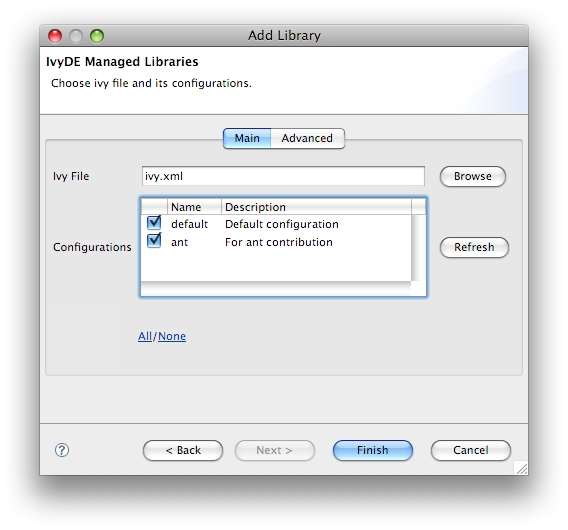
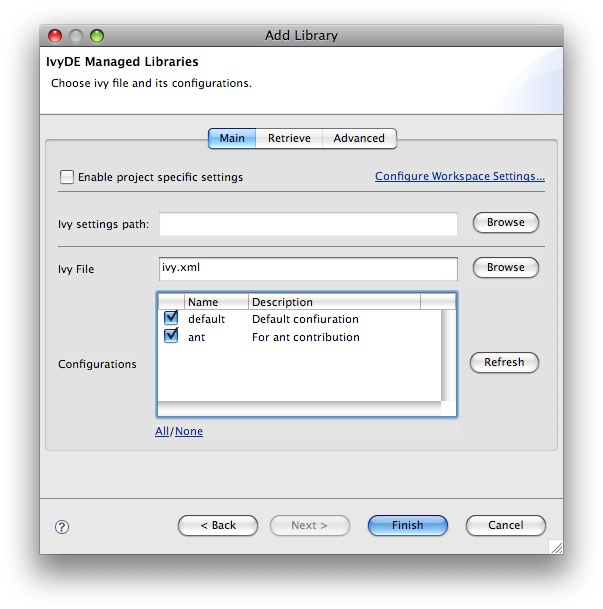
IVYDE-119:  - update of the documentation and the screenshots
git-svn-id: http://svn.apache.org/repos/asf/ant@713481 13f79535-47bb-0310-9956-ffa450edef68

Changed region(s): [[0.0599, 0.0302, 0.9577, 0.9358]]

diff --git a/ivy/ivyde/trunk/doc/cp_container.html b/ivy/ivyde/trunk/doc/cp_container.html
@@ -45,7 +45,9 @@ Nothing easier, just follow these steps:
 <li>Open the "Add Library" form of Eclipse (In package Explorer, in popup menu of your project choose : [Build Path]/[Add Libraries]).<br/><br/><center><img src="images/build_path_menu.jpg"/></center><br/><br/></li>
 <li>Select "IvyDE Managed Dependencies" item.<br/><br/><center><img src="images/add_lib.jpg"/></center><br/><br/></li>
 <li>Select an ivy.xml file or a <a href="maven.html">maven pom.xml</a> and the desired configurations.<br/><br/><center><img src="images/ivy_file_def.jpg"/></center><br/><br/></li>
-<li><a name="localconf"></a>You then might want to have a special configuration for your project, a configuration different from the <a href="index.html#pref">global one</a>. Then select the "Advanced" panel and click on "Enable project specific settings". Every configuration entry behaves exactly is the same way as the <a href="index.html#pref">global ones</a>.<br/><br/><center><img src="images/cp_advanced_conf.jpg"/></center></li>
+<li><a name="localconf"></a>You then might want to have a special configuration for your project, a configuration different from the <a href="index.html#pref">global one</a>. For the ivy settings, click on the "Enable project specific settings" check box.<br/><br/><center><img src="images/project_specific_settings.jpg"/></center></li>
+<li><a name="retrieve"></a>On the next panel's tab, you can specify a retrieve job that will be launched on each resolve.<br/><br/><center><img src="images/retrieve.jpg"/></center></li>
+<li><a name="advanced"></a>You can also customize some advanced configuration of the classpath container: see the "Advanced" panel and click on "Enable project specific settings". Every configuration entry behaves exactly is the same way as the <a href="index.html#pref">global ones</a>.<br/><br/><center><img src="images/cp_advanced_conf.jpg"/></center></li>
 </ul><br/>
 Your class path is set and you can see all dependencies in one unique folder of the package explorer (folder name = &amp;amp;lt;ivy file name&amp;amp;gt;[&amp;amp;lt;configuration&amp;amp;gt;]).<br/><br/>
 <center> 
